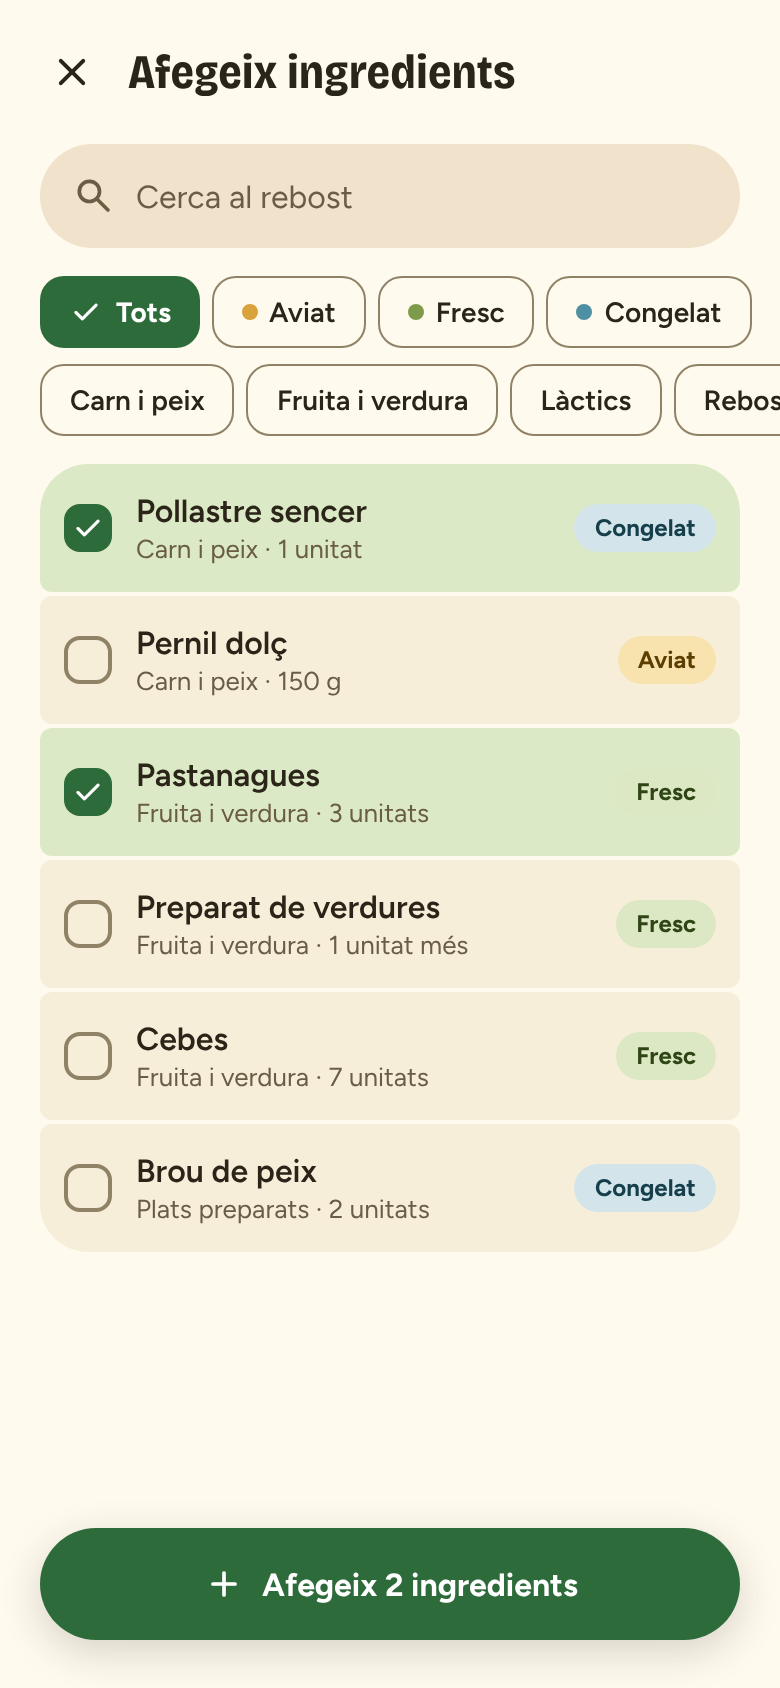
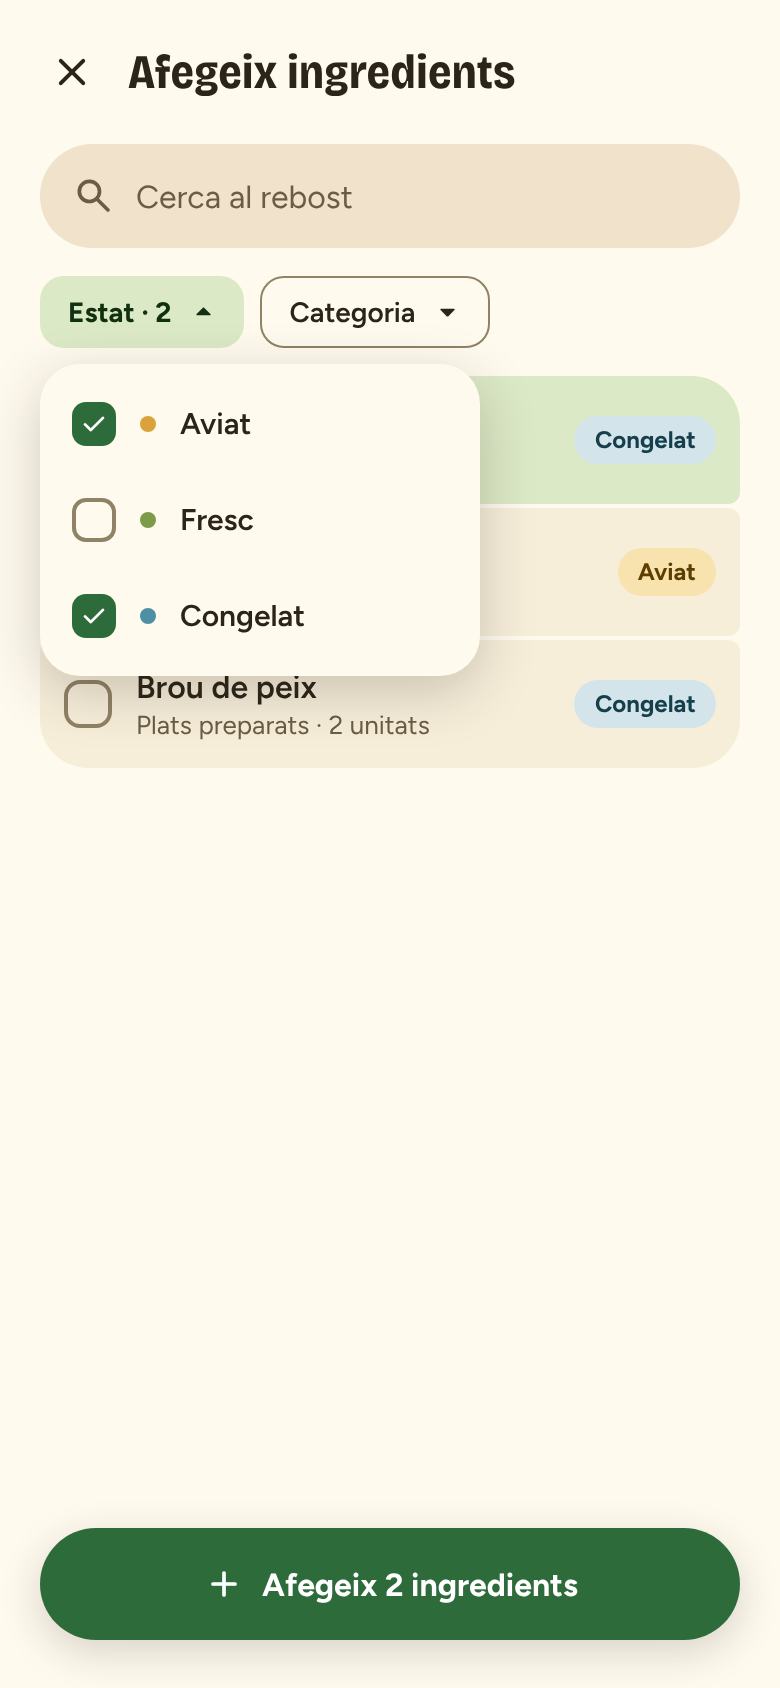
Add phase 4b to the Transforma plan: multi-select dropdown filters in the picker

diff --git a/docs/02-transforma/plan.md b/docs/02-transforma/plan.md
@@ -1,7 +1,8 @@
 # Pla: Transforma (ingredients → elaboracions)
 
 Especificació: [`spec.md`](spec.md). Captures: `captures/Transforma{Seleccio,Caldo,Pollastre,Ingredient,Buit}`, `EntradaMenu`, `EntradaAccions`, `Main` (botó dividit en repòs).
-**Canvi de disseny (2026-10-13):** nou **accés lliure** (`TransformaBuit`, vegeu «Accés lliure» a l'especificació: sense ingredients, nom + categoria + data obligatoris) i captures actualitzades. Afecta les fases 2 i 3 ja validades (vegeu «Fase 2b» i «Fase 3b») i la 5. Validació sempre al Pixel 8a, mai a l'emulador.
+**Canvi de disseny (2026-10-13):** nou **accés lliure** (`TransformaBuit`, vegeu «Accés lliure» a l'especificació: sense ingredients, nom + categoria + data obligatoris) i captures actualitzades. Afecta les fases 2 i 3 ja validades (vegeu «Fase 2b» i «Fase 3b») i la 5.
+**Canvi de disseny (2026-10-13, 2n):** filtres del selector d'ingredients com a dos xips desplegables de selecció múltiple (`TransformaIngredient` actualitzada); afecta la fase 4 ja validada (vegeu «Fase 4b»). La resta del paquet (accés lliure, botó dividit, sense pulsació llarga) ja hi era; `Rebost.png` del zip no s'ha copiat (no és a la llista del paquet). Validació sempre al Pixel 8a, mai a l'emulador.
 **Ordre: segona de les dues**, després de [diverses unitats](../01-diverses-unitats/plan.md). Independent a nivell de codi, però comparteix el patró de «Desfés» amb snapshots.
 
 ## Punt de partida i diferències amb l'especificació
@@ -119,6 +120,17 @@ Validada al Pixel 8a: obre buit, Desa desactivat, activat en triar categoria i d
 
 Validada a l'emulador (el Pixel no era a l'adb): preselecció, recompte del botó i fusió a Transforma. El botó queda desactivat amb 0 seleccionats. Els filtres només estan validats amb tests; previews clar/fosc i captures, a la fase 6.
 
+## Fase 4b — Filtres desplegables del selector
+
+Canvi de disseny (zip `caducity-canvi-transforma`, nova `TransformaIngredient.png`): els filtres del selector deixen de ser xips d'un sol valor (`FilterChips`) i passen a **dos xips desplegables, Estat i Categoria, de selecció múltiple**. Substitueix les tasques de filtres de la fase 4.
+1. `IngredientPickerState`: `statusFilter: PickerStatusFilter` → `statusFilters: Set<ExpiryStatus>` (Aviat · Fresc · Congelat; sense l'opció «Tots», buit = tot) i `categoryFilter: String?` → `categoryFilters: Set<String>`. `filterPickerGroups` filtra per pertinença; un producte passa l'estat si alguna unitat el té.
+2. ViewModel: `onStatusFilterToggle` / `onCategoryFilterToggle` (alternen), sense «aplica/esborra».
+3. UI: dos xips amb `DropdownMenu` + `DropdownMenuItem` + `Checkbox` (estat amb el punt de color; categoria amb el nom). Toc → menú; el llistat es filtra a l'instant. Amb selecció, xip `primary-container` i recompte («Estat · 2»); fletxa ⌃/⌄ segons obert. **El xip Estat no es mostra si només hi ha un estat** entre els productes llistats; **el de Categoria, si només hi ha una categoria.**
+4. Textos nous (etiquetes Estat i Categoria, recompte) a `values`, `values-ca`, `values-es`; treure `transform_picker_filter_all` si queda sense ús.
+5. Tests: filtres de selecció múltiple (estat, categoria, combinats, buit = tot); xip ocult amb un sol estat/categoria. Previews clar/fosc amb el menú obert.
+
+**Sortida:** el selector filtra amb els dos desplegables, com a `TransformaIngredient`.
+
 ## Fase 5 — Entrades i flux final
 
 **Flag:** totes les entrades noves (barra de selecció, full d'Accions, botó dividit «+ ⌄») s'han de mostrar només si `TransformFeature` (`transform_enabled`, Remote Config, apagat per defecte) és actiu. Ja protegeix l'entrada de Depuració. L'activació per als usuaris és una decisió a part.
@@ -158,6 +170,7 @@ Receptes, escalat de quantitats, pes/volum, historial visible de transformacions
 | 4 — Selector d'ingredients | Validada |
 | 2b — Accés lliure al cas d'ús | Validada |
 | 3b — Pantalla en accés lliure | Validada |
+| 4b — Filtres desplegables del selector | Pendent |
 | 5 — Entrades i flux final | Pendent (després de 2b i 3b) |
 | 6 — Qualitat | Pendent |
 

diff --git a/docs/02-transforma/spec.md b/docs/02-transforma/spec.md
@@ -32,7 +32,7 @@ Cas de diversos resultats (`TransformaPollastre`): cada resultat és una fila **
 Nota al peu: «Els ingredients desapareixen del rebost en desar.»
 
 ### Afegeix ingredients (`TransformaIngredient`)
-Pantalla a pantalla completa (no diàleg): cerca «Cerca al rebost», xips d'estat (Tots · Aviat · Fresc · **Congelat**) i de categoria (desplaçables), i llista de productes amb casella, meta (categoria · unitats/pes) i **pastilla d'estat** (Aviat/Fresc/Congelat). **Inclou ítems congelats.** Es poden marcar productes ja afegits (apareixen seleccionats). Botó inferior ample «Afegeix N ingredients». Els **caducats** no es llisten aquí (vegeu «Obert» 2).
+Pantalla a pantalla completa (no diàleg): cerca «Cerca al rebost», **dos xips desplegables**, **Estat** (Aviat · Fresc · **Congelat**) i **Categoria**, de **selecció múltiple** (toc → menú amb caselles; **el llistat es filtra a l'instant** a mesura que es marca, sense botons Aplica/Esborra; sense cap selecció = tot; **si només hi ha una categoria (o un estat), el xip no es mostra**; amb selecció, el xip passa a `primary-container` i mostra el recompte, «Estat · 2»), i llista de productes amb casella, meta (categoria · unitats/pes) i **pastilla d'estat** (Aviat/Fresc/Congelat). **Inclou ítems congelats.** Es poden marcar productes ja afegits (apareixen seleccionats). Botó inferior ample «Afegeix N ingredients». Els **caducats** no es llisten aquí (vegeu «Obert» 2).
 
 ## Accés lliure (`TransformaBuit`)
 Entrada des del menú del botó dividit «⌄» (o qualsevol ruta sense ingredients prèvia). La pantalla s'obre **sense dades**: cap ingredient, un únic resultat buit amb el camp Nom autoenfocat.
